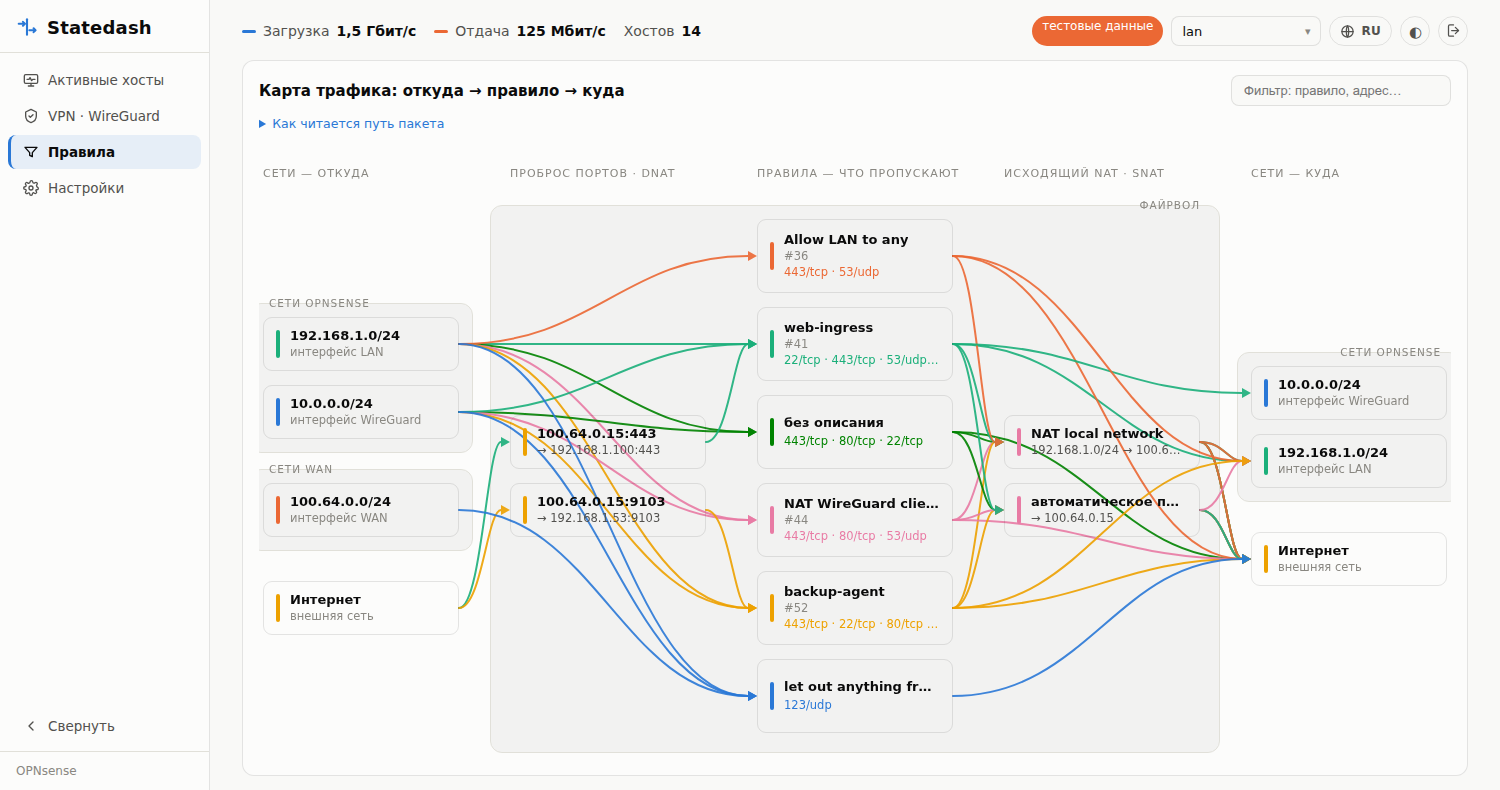
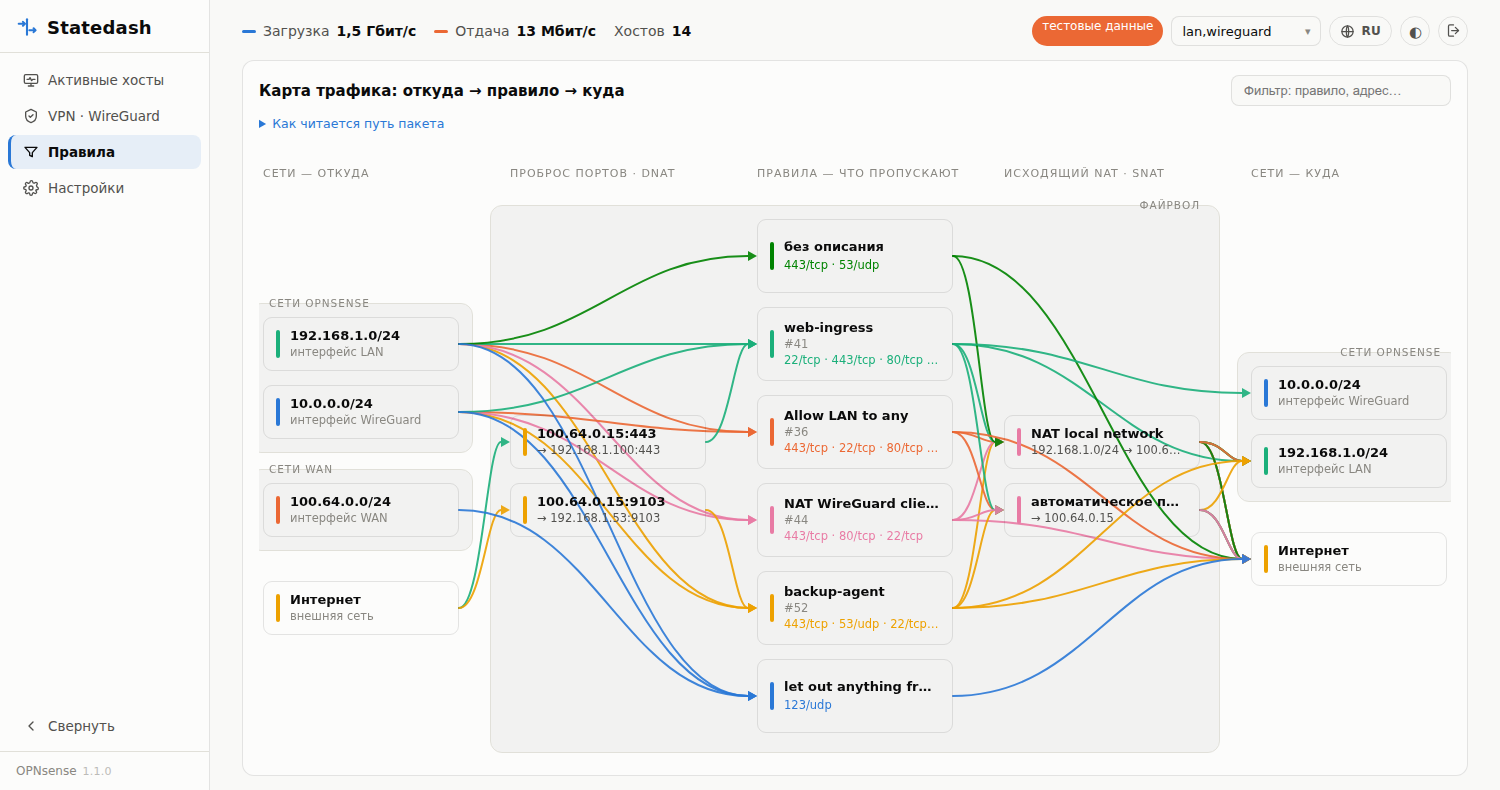
Reshoot the screenshots, in both themes
The old ones predate 1.1.0 and show the throughput chart as a single pair of
lines, the interface picker before it worked, and no version in the sidebar.

Each section is now captured in light and dark, in both languages — twenty
files. The readme picks between them with <picture> and a
prefers-color-scheme source, which GitHub honours, so the shot matches the
theme the reader is already looking at. Light keeps the original filenames, so
anything linking to them still resolves.

Taken against the released 1.1.0 image rather than a local build, so what is
shown is what someone pulling the image gets.

diff --git a/README.md b/README.md
@@ -7,7 +7,10 @@ where every device connects to, which firewall rules the traffic flows through
 and who is connected over VPN. Nothing is installed on the firewall — the app
 polls the OPNsense REST API and runs in Docker on any machine.
 
-![hosts](docs/statedash-hosts.png)
+<picture>
+  <source media="(prefers-color-scheme: dark)" srcset="docs/statedash-hosts-dark.png">
+  <img alt="hosts" src="docs/statedash-hosts.png">
+</picture>
 
 ## Sections
 
@@ -38,7 +41,10 @@ Clicking a row opens a bottom panel with three tabs:
   with its paired NAT entry) or copy the addresses;
 - **Histogram** — the host’s throughput over the last 15 minutes.
 
-![connections](docs/statedash-connections.png)
+<picture>
+  <source media="(prefers-color-scheme: dark)" srcset="docs/statedash-connections-dark.png">
+  <img alt="connections" src="docs/statedash-connections.png">
+</picture>
 
 ### Rules
 
@@ -63,7 +69,10 @@ Each rule node lists the destination ports its connections currently use
 (`443/tcp · 53/udp · …`); hovering shows the full list with service names. Below is the configured rule set (filter and outbound NAT) read from
 the OPNsense API, with current usage per rule.
 
-![rules](docs/statedash-rules.png)
+<picture>
+  <source media="(prefers-color-scheme: dark)" srcset="docs/statedash-rules-dark.png">
+  <img alt="rules" src="docs/statedash-rules.png">
+</picture>
 
 ### VPN · WireGuard
 
@@ -72,7 +81,10 @@ allowed IPs, current rates, total traffic. Clicking a peer opens the same
 detail panel: overview, connections by tunnel IP, histogram. Active peers also
 appear in “Active hosts” as regular devices.
 
-![wireguard](docs/statedash-wireguard.png)
+<picture>
+  <source media="(prefers-color-scheme: dark)" srcset="docs/statedash-wireguard-dark.png">
+  <img alt="wireguard" src="docs/statedash-wireguard.png">
+</picture>
 
 ### Settings
 
@@ -89,7 +101,10 @@ appear in “Active hosts” as regular devices.
   only ever shown masked and never sent back; new values are verified with a
   request to the firewall and applied only if it answers.
 
-![settings](docs/statedash-settings.png)
+<picture>
+  <source media="(prefers-color-scheme: dark)" srcset="docs/statedash-settings-dark.png">
+  <img alt="settings" src="docs/statedash-settings.png">
+</picture>
 
 ### Across the interface
 
